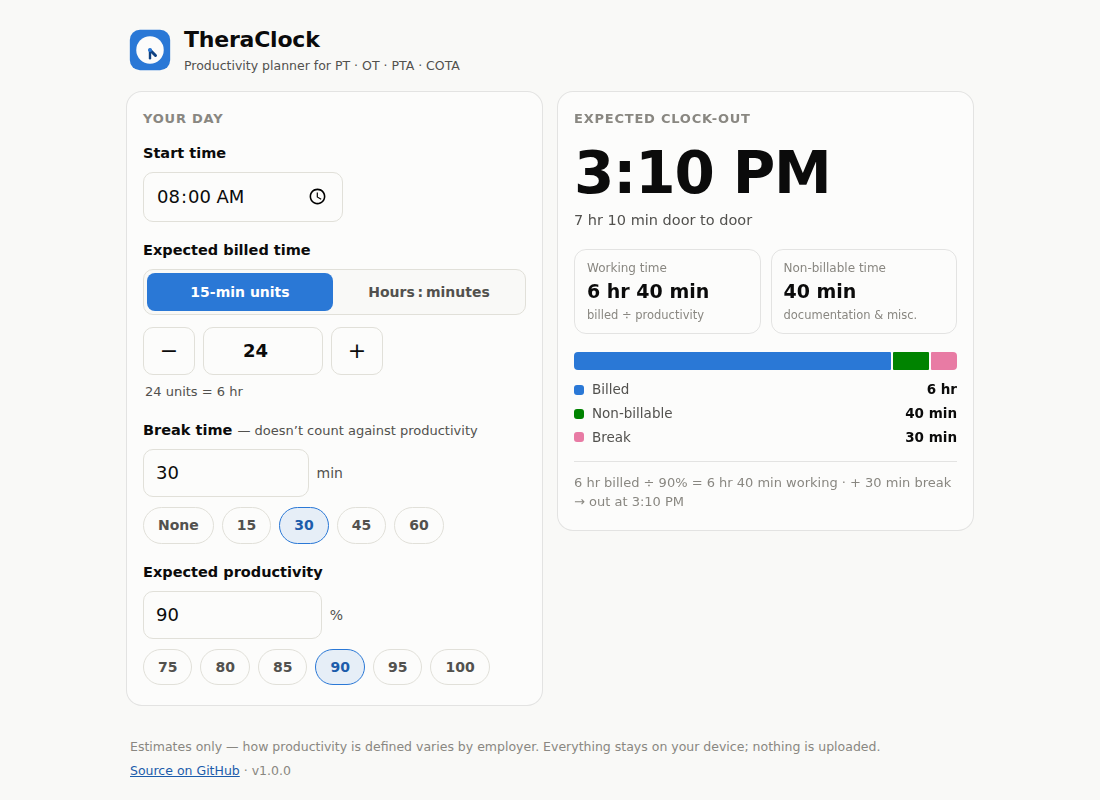
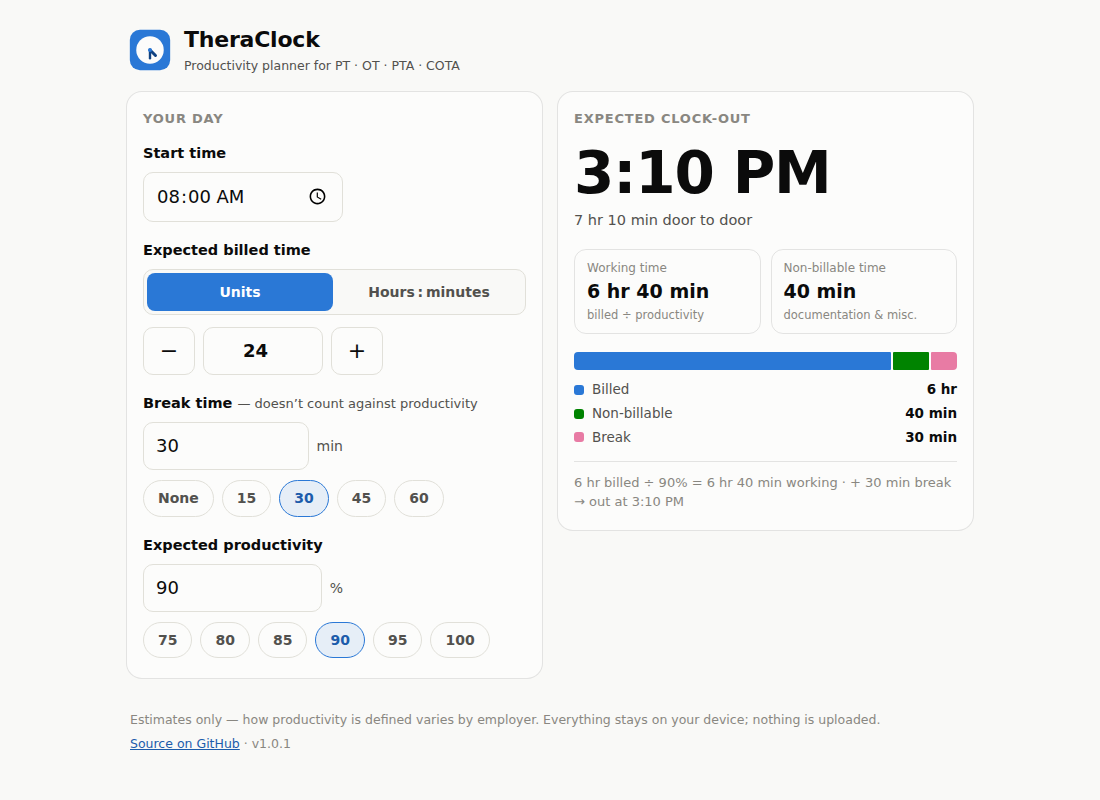
Simplify billed-time entry: 'Units' label, drop conversion hint (v1.0.1)
Requested tweaks: segmented toggle now reads 'Units' instead of
'15-min units', and the '24 units = 6 hr' helper line is removed.
Break time and productivity keep their direct number inputs.
Bumps the service-worker cache so installed apps pick up the update.

Claude-Session: https://claude.ai/code/session_01C3ier1hD4H2N4ZiqysrebU

diff --git a/app.js b/app.js
@@ -86,7 +86,6 @@ if (typeof document !== 'undefined') {
       units: $('units'),
       unitsMinus: $('units-minus'),
       unitsPlus: $('units-plus'),
-      unitsHint: $('units-hint'),
       billH: $('bill-h'),
       billM: $('bill-m'),
       brk: $('break'),
@@ -177,12 +176,6 @@ if (typeof document !== 'undefined') {
         breakMin: brk,
         productivityPct: prod
       });
-
-      // units hint
-      var u = Number(els.units.value);
-      els.unitsHint.textContent = isFinite(u) && u > 0
-        ? u + (u === 1 ? ' unit = ' : ' units = ') + fmtDuration(unitsToMinutes(u))
-        : ' ';
 
       syncChips(els.breakChips, brk);
       syncChips(els.prodChips, prod);

diff --git a/styles.css b/styles.css
@@ -219,12 +219,6 @@ button:focus-visible {
 
 .step-btn:active { background: var(--accent-wash); }
 
-.hint {
-  margin: 8px 2px 0;
-  font-size: 13px;
-  color: var(--ink-2);
-}
-
 .hm-row {
   display: flex;
   align-items: center;

diff --git a/index.html b/index.html
@@ -45,7 +45,7 @@
           <span class="label" id="billed-label">Expected billed time</span>
           <div class="segmented" role="radiogroup" aria-labelledby="billed-label">
             <input type="radio" name="billed-mode" id="mode-units" value="units" checked>
-            <label for="mode-units">15-min units</label>
+            <label for="mode-units">Units</label>
             <input type="radio" name="billed-mode" id="mode-hours" value="hours">
             <label for="mode-hours">Hours&thinsp;:&thinsp;minutes</label>
           </div>
@@ -56,7 +56,6 @@
               <input type="number" id="units" inputmode="decimal" min="0" max="99" step="0.25" value="24" aria-label="Billed units">
               <button type="button" class="step-btn" id="units-plus" aria-label="Increase units">+</button>
             </div>
-            <p class="hint" id="units-hint">24 units = 6 hr</p>
           </div>
 
           <div class="mode-pane" id="pane-hours" hidden>
@@ -139,7 +138,7 @@
 
     <footer class="footer">
       <p>Estimates only — how productivity is defined varies by employer. Everything stays on your device; nothing is uploaded.</p>
-      <p><a id="gh-link" href="https://github.com/schmittmeister1/theraclock" rel="noopener">Source on GitHub</a> · v1.0.0</p>
+      <p><a id="gh-link" href="https://github.com/schmittmeister1/theraclock" rel="noopener">Source on GitHub</a> · v1.0.1</p>
     </footer>
   </main>
 

diff --git a/sw.js b/sw.js
@@ -3,7 +3,7 @@
 
 'use strict';
 
-var CACHE = 'theraclock-v1.0.0';
+var CACHE = 'theraclock-v1.0.1';
 var ASSETS = [
   './',
   './index.html',